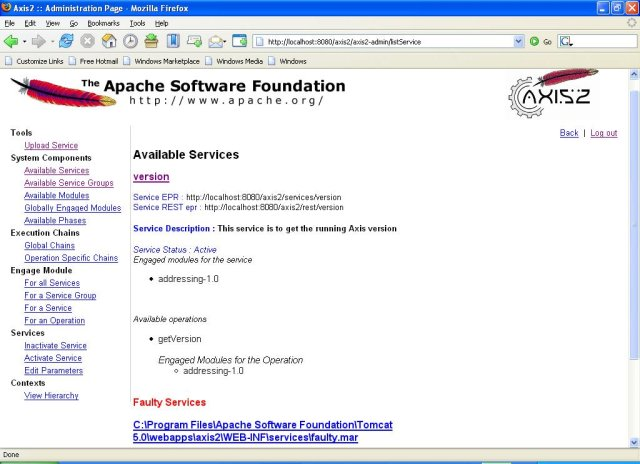
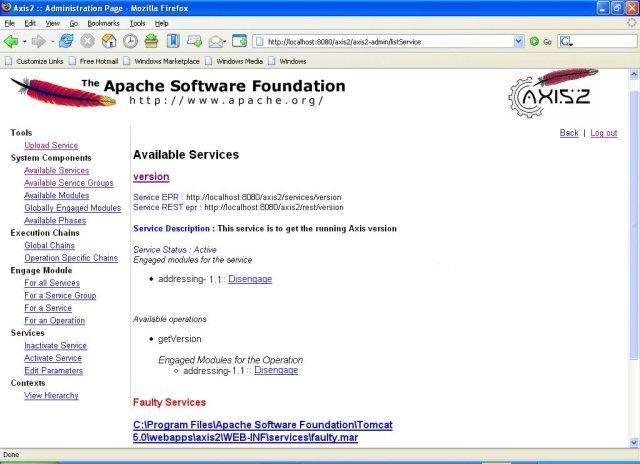
updated complete on admin guide
git-svn-id: https://svn.apache.org/repos/asf/webservices/axis2/trunk/java@449998 13f79535-47bb-0310-9956-ffa450edef68

diff --git a/xdocs/1_1/webadminguide.html b/xdocs/1_1/webadminguide.html
@@ -166,9 +166,17 @@ page. This can be done in two simple steps:</p>
 
 <p>The functionality of the 'Available Services' option is almost same as the
 functionality of Axis2 Web Application Home page 'Services' option where it
-displays the list of deployed services. But as an additional feature, if
-there are any modules engaged globally to services or operations those
-details will also be displayed here.</p>
+displays a list of deployed services and their operations. But as an
+additional feature, the 'Available Services page will list details of modules
+that are engaged to the deployed services and their operations on a global,
+service or on an operation level.</p>
+
+<p>Using the 'Disengange' link one can disengange the corresponding module,
+as long as the module is not globally engaged (enganged to all services and
+operations).</p>
+
+<p>Click on a specific service and it will give you the WSDL file of that
+particular service.</p>
 
 <p><strong>Faulty services</strong> of this system will also be listed on
 this page. Click on each faulty service, it will take you to a page that
@@ -318,7 +326,10 @@ link to page where you can select service to edit Parameters. Once service is
 selected click on 'Edit Parameters' button. This will lead to page below.</p>
 
 <p align="center"><img alt="" src="images/editserviecpara.jpg"></p>
-<a name="viewhierarchy"></a>
+
+<h3></h3>
+
+<p><a name="viewhierarchy"></a></p>
 
 <h3>View Hierarchy</h3>
 
